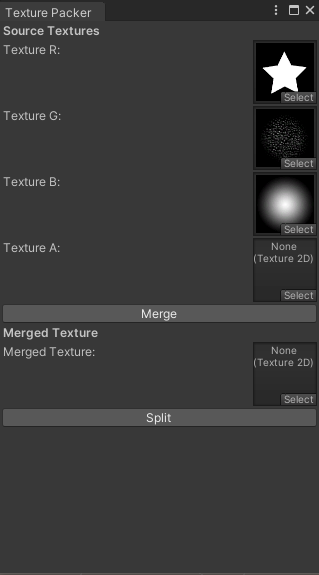
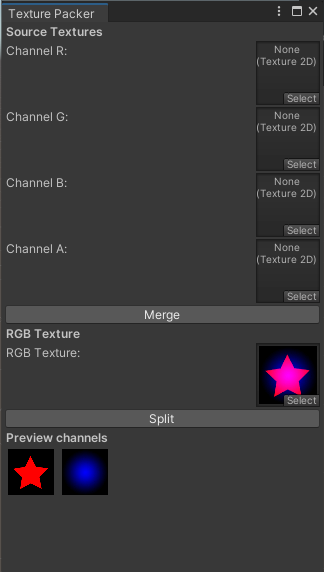
Minor update

Changed region(s): [[0.0, 0.0, 1.0, 1.0], [0.8464, 0.0, 0.9875, 0.0297]]

diff --git a/TexturePacker.cs b/TexturePacker.cs
@@ -32,10 +32,10 @@ public class TexturePacker : EditorWindow
     void OnGUI()
     {
         GUILayout.Label("Source Textures", EditorStyles.boldLabel);
-        textureR = (Texture2D)EditorGUILayout.ObjectField("Texture R:", textureR, typeof(Texture2D), false);
-        textureG = (Texture2D)EditorGUILayout.ObjectField("Texture G:", textureG, typeof(Texture2D), false);
-        textureB = (Texture2D)EditorGUILayout.ObjectField("Texture B:", textureB, typeof(Texture2D), false);
-        textureA = (Texture2D)EditorGUILayout.ObjectField("Texture A:", textureA, typeof(Texture2D), false);
+        textureR = (Texture2D)EditorGUILayout.ObjectField("Channel R:", textureR, typeof(Texture2D), false);
+        textureG = (Texture2D)EditorGUILayout.ObjectField("Channel G:", textureG, typeof(Texture2D), false);
+        textureB = (Texture2D)EditorGUILayout.ObjectField("Channel B:", textureB, typeof(Texture2D), false);
+        textureA = (Texture2D)EditorGUILayout.ObjectField("Channel A:", textureA, typeof(Texture2D), false);
 
         if (GUILayout.Button("Merge"))
         {
@@ -44,8 +44,8 @@ public class TexturePacker : EditorWindow
 
         
 
-        GUILayout.Label("Merged Texture", EditorStyles.boldLabel);
-        var newMergedTexture = (Texture2D)EditorGUILayout.ObjectField("Merged Texture:", mergedTexture, typeof(Texture2D), false);
+        GUILayout.Label("RGB Texture", EditorStyles.boldLabel);
+        var newMergedTexture = (Texture2D)EditorGUILayout.ObjectField("RGB Texture:", mergedTexture, typeof(Texture2D), false);
 
         if (mergedTexture != null)
         {
@@ -62,7 +62,7 @@ public class TexturePacker : EditorWindow
 
         if (mergedTexture != null)
         {
-            GUILayout.Label("Preview Textures", EditorStyles.boldLabel);
+            GUILayout.Label("Preview channels", EditorStyles.boldLabel);
 
             GUILayout.BeginHorizontal();
 
